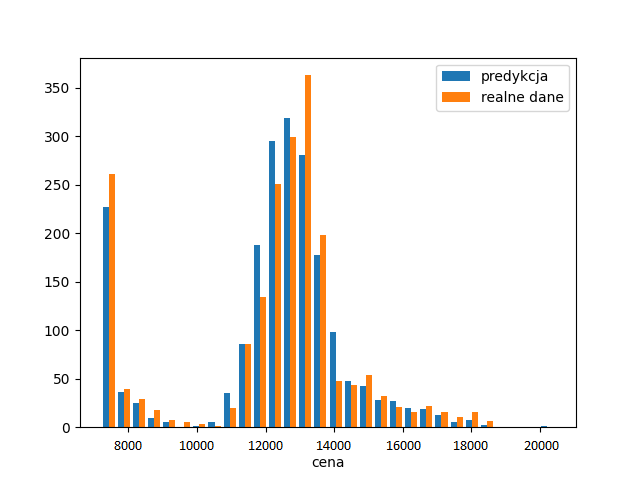
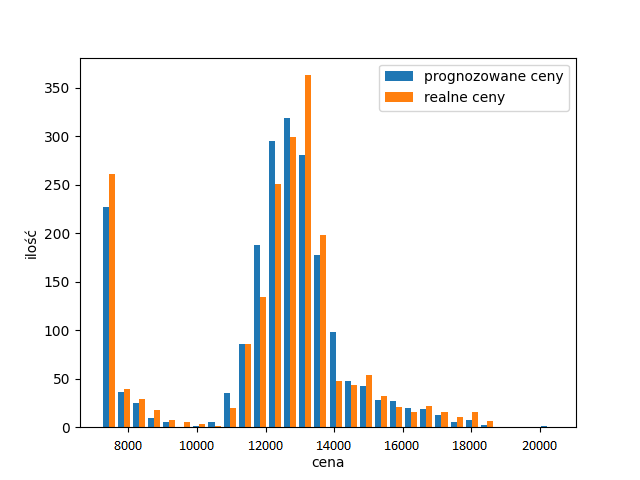
ml program fixes

diff --git a/ml-cars.py b/ml-cars.py
@@ -43,7 +43,7 @@ def train_model(train_dataset):
     popularity = round(lr_model.coefficients[5], 2)
     b = round(lr_model.intercept, 2)
     print(
-        f"""Wzor dla regresji liniowej to:
+        f"""Wzor nauczonego modelu:
         cena = {year}*rok + {engine_hp}*konie_mechaniczne + {number_of_doors}*drzwi + {highway_mpg}*mpg_autostrada 
         + {city_mpg}*mpg_miasto + {popularity}*popularnosc + {b}""")
 
@@ -52,7 +52,7 @@ def train_model(train_dataset):
     return trained_model
 
 
-def make_predictions(trained_model):
+def make_predictions(trained_model, test_df):
     prediction_df = trained_model.transform(test_df)
     prediction_df.select("features", "price", "prediction").show(10)
     return prediction_df
@@ -64,10 +64,10 @@ def evaluate_model(model):
         labelCol="price",
         metricName="rmse")
     rmse = regression_evaluator.evaluate(model)
-    print(f"RMSE is {rmse:.1f}")
+    print(f"RMSE = {rmse:.1f}")
 
     r2 = regression_evaluator.setMetricName("r2").evaluate(model)
-    print(f"R2 is {r2}")
+    print(f"R2 = {r2}")
 
 
 def plot_histogram(real_data, prediction):
@@ -77,8 +77,9 @@ def plot_histogram(real_data, prediction):
 
     plt.figure()
     plt.hist([predicted, input_data], bins=30, log=False)
-    plt.legend(('predykcja', 'realne dane'))
+    plt.legend(('prognozowane ceny', 'realne ceny'))
     plt.xlabel('cena')
+    plt.ylabel('ilość')
     plt.savefig('result_histogram.png')
 
 
@@ -93,7 +94,7 @@ if __name__ == '__main__':
 
     (train_df, test_df) = split_data(cars_df)
     estimate_model = train_model(train_df)
-    predictions_df = make_predictions(estimate_model)
+    predictions_df = make_predictions(estimate_model, test_df)
     evaluate_model(predictions_df)
     plot_histogram(cars_df, predictions_df)
     spark.stop()
